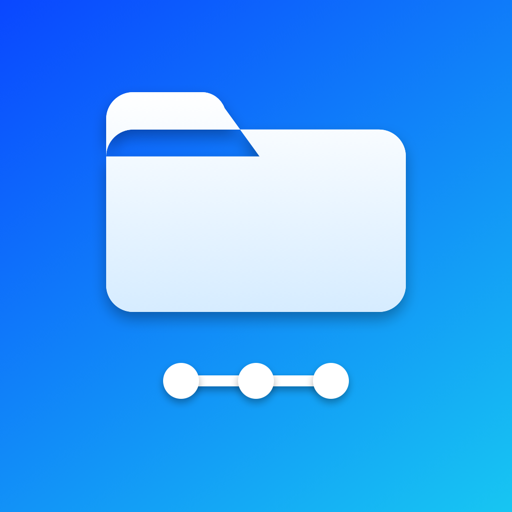
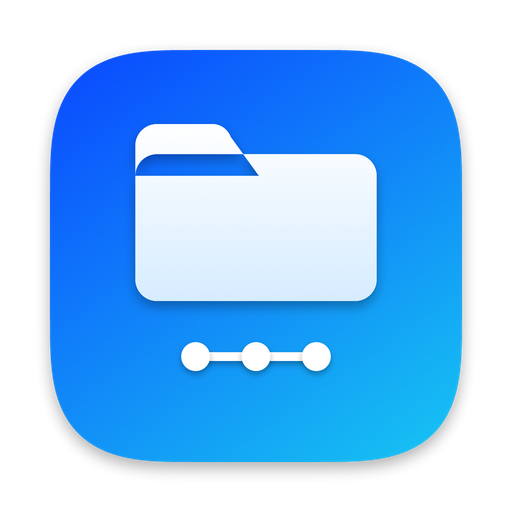
Connecter: icono con la forma de los iconos de macOS (esquinas continuas y sombra)
Claude-Session: https://claude.ai/code/session_016ubzzxuz61ksPHTWR5puKG

diff --git a/connecter/es/index.html b/connecter/es/index.html
@@ -9,14 +9,15 @@
   <link rel="alternate" hreflang="en" href="https://arcester.github.io/connecter/">
   <link rel="alternate" hreflang="es" href="https://arcester.github.io/connecter/es/">
   <link rel="alternate" hreflang="x-default" href="https://arcester.github.io/connecter/">
-  <link rel="icon" type="image/png" href="../favicon.png">
-  <link rel="apple-touch-icon" href="../icon.png">
+  <link rel="icon" type="image/png" sizes="64x64" href="../favicon.png">
+  <link rel="icon" type="image/png" sizes="32x32" href="../favicon-32.png">
+  <link rel="apple-touch-icon" href="../apple-touch-icon.png">
   <meta name="theme-color" content="#1a6dff">
   <meta property="og:type" content="website">
   <meta property="og:url" content="https://arcester.github.io/connecter/es/">
   <meta property="og:title" content="Connecter">
   <meta property="og:description" content="Tus unidades de red SMB, siempre conectadas en tu Mac.">
-  <meta property="og:image" content="https://arcester.github.io/connecter/icon.png">
+  <meta property="og:image" content="https://arcester.github.io/connecter/og-icon.png">
   <meta name="twitter:card" content="summary">
   <style>
     :root {
@@ -70,7 +71,7 @@
     }
     nav .wrap { display: flex; align-items: center; justify-content: space-between; height: 56px; }
     .brand { display: flex; align-items: center; gap: 10px; font-weight: 700; color: var(--text); text-decoration: none; }
-    .brand img { width: 28px; height: 28px; border-radius: 7px; }
+    .brand img { width: 30px; height: 30px; }
     nav ul { display: flex; gap: 22px; list-style: none; margin: 0; padding: 0; font-size: 15px; }
     nav ul a { color: var(--muted); text-decoration: none; }
     nav ul a:hover { color: var(--text); }
@@ -94,11 +95,12 @@
     @media (max-width: 860px) {
       .hero { grid-template-columns: 1fr; text-align: center; padding: 32px 0 56px; }
       .hero .actions { justify-content: center; }
+      .hero .icon { margin-left: 0; }
     }
+    /* El PNG ya trae la forma y la sombra de un icono de macOS (cuerpo al 80 % del lienzo) */
     .hero .icon {
-      width: 96px; height: 96px;
-      border-radius: 22px;
-      box-shadow: 0 16px 36px rgba(26, 109, 255, .3);
+      width: 120px; height: 120px;
+      margin: -12px 0 -12px -12px;
     }
     h1 {
       font-size: clamp(30px, 4.6vw, 46px);
@@ -220,7 +222,7 @@
       padding: 56px 24px;
       margin: 72px 0;
     }
-    .cta img { width: 72px; height: 72px; border-radius: 17px; box-shadow: 0 10px 24px rgba(0, 0, 0, .2); }
+    .cta img { width: 96px; height: 96px; margin: -8px 0 -10px; }
     .cta h2 { font-size: clamp(26px, 4vw, 34px); margin: 18px 0 8px; letter-spacing: -.02em; }
     .cta p { margin: 0 auto 24px; opacity: .9; max-width: 30em; }
     .cta .btn { background: #fff; color: #1a6dff; }

diff --git a/connecter/index.html b/connecter/index.html
@@ -9,14 +9,15 @@
   <link rel="alternate" hreflang="en" href="https://arcester.github.io/connecter/">
   <link rel="alternate" hreflang="es" href="https://arcester.github.io/connecter/es/">
   <link rel="alternate" hreflang="x-default" href="https://arcester.github.io/connecter/">
-  <link rel="icon" type="image/png" href="favicon.png">
-  <link rel="apple-touch-icon" href="icon.png">
+  <link rel="icon" type="image/png" sizes="64x64" href="favicon.png">
+  <link rel="icon" type="image/png" sizes="32x32" href="favicon-32.png">
+  <link rel="apple-touch-icon" href="apple-touch-icon.png">
   <meta name="theme-color" content="#1a6dff">
   <meta property="og:type" content="website">
   <meta property="og:url" content="https://arcester.github.io/connecter/">
   <meta property="og:title" content="Connecter">
   <meta property="og:description" content="Your SMB network drives, always connected on your Mac.">
-  <meta property="og:image" content="https://arcester.github.io/connecter/icon.png">
+  <meta property="og:image" content="https://arcester.github.io/connecter/og-icon.png">
   <meta name="twitter:card" content="summary">
   <style>
     :root {
@@ -70,7 +71,7 @@
     }
     nav .wrap { display: flex; align-items: center; justify-content: space-between; height: 56px; }
     .brand { display: flex; align-items: center; gap: 10px; font-weight: 700; color: var(--text); text-decoration: none; }
-    .brand img { width: 28px; height: 28px; border-radius: 7px; }
+    .brand img { width: 30px; height: 30px; }
     nav ul { display: flex; gap: 22px; list-style: none; margin: 0; padding: 0; font-size: 15px; }
     nav ul a { color: var(--muted); text-decoration: none; }
     nav ul a:hover { color: var(--text); }
@@ -94,11 +95,12 @@
     @media (max-width: 860px) {
       .hero { grid-template-columns: 1fr; text-align: center; padding: 32px 0 56px; }
       .hero .actions { justify-content: center; }
+      .hero .icon { margin-left: 0; }
     }
+    /* El PNG ya trae la forma y la sombra de un icono de macOS (cuerpo al 80 % del lienzo) */
     .hero .icon {
-      width: 96px; height: 96px;
-      border-radius: 22px;
-      box-shadow: 0 16px 36px rgba(26, 109, 255, .3);
+      width: 120px; height: 120px;
+      margin: -12px 0 -12px -12px;
     }
     h1 {
       font-size: clamp(30px, 4.6vw, 46px);
@@ -220,7 +222,7 @@
       padding: 56px 24px;
       margin: 72px 0;
     }
-    .cta img { width: 72px; height: 72px; border-radius: 17px; box-shadow: 0 10px 24px rgba(0, 0, 0, .2); }
+    .cta img { width: 96px; height: 96px; margin: -8px 0 -10px; }
     .cta h2 { font-size: clamp(26px, 4vw, 34px); margin: 18px 0 8px; letter-spacing: -.02em; }
     .cta p { margin: 0 auto 24px; opacity: .9; max-width: 30em; }
     .cta .btn { background: #fff; color: #1a6dff; }
